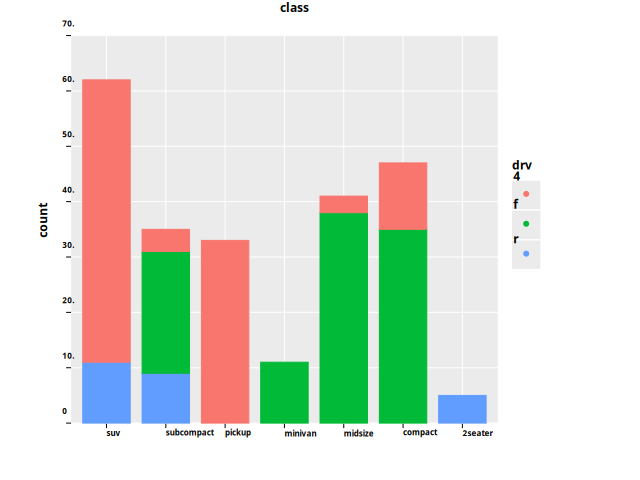
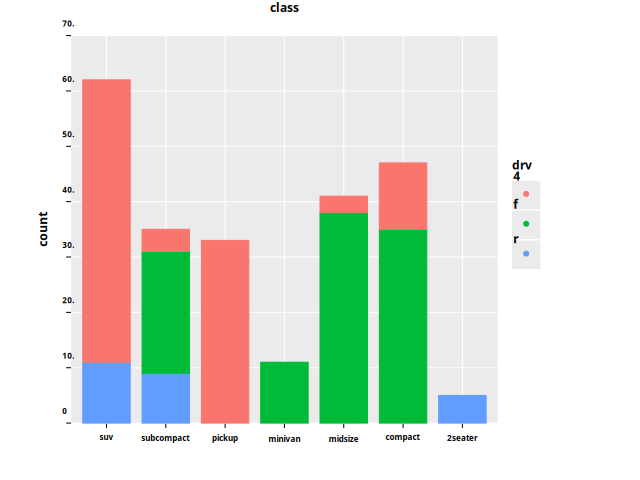
center tick labels correctly

diff --git a/src/python_ggplot/graphics/cairo_backend.py b/src/python_ggplot/graphics/cairo_backend.py
@@ -247,8 +247,8 @@ class CairoBackend:
             elif align_kind == TextAlignKind.RIGHT:
                 move_to_x = x - (extends.width + extends.x_bearing)
                 move_to_y = y - (extends.height / 2.0 + extends.y_bearing)
-            elif align_kind == TextAlignKind.CENTER:  # Center
-                move_to_x = x - (extends.width / 2.0 + extends.y_bearing)
+            elif align_kind == TextAlignKind.CENTER:  # Cexer
+                move_to_x = x - (extends.width / 2.0 + extends.x_bearing)
                 move_to_y = y - (extends.height / 2.0 + extends.y_bearing)
             else:
                 raise GGException("unexpected")

diff --git a/src/python_ggplot/graphics/initialize.py b/src/python_ggplot/graphics/initialize.py
@@ -803,7 +803,7 @@ def y_label_origin_offset(
         pos = 1.5
     str_height_coord = Coord1D.create_str_width(pos, font).to_points()
     str_height_quantity = view.get_str_height(text, font).to_points()
-    str_height_quantity.val = str_height_quantity.val * 1.7
+    str_height_quantity.val = str_height_quantity.val / 2
 
     return coord_quantity_sub(str_height_coord, str_height_quantity)
 

diff --git a/src/python_ggplot/gg/types.py b/src/python_ggplot/gg/types.py
@@ -288,7 +288,7 @@ class Theme:
     )  # TODO double check
     x_ticks_rotate: float = 0.0
     y_ticks_rotate: float = 0.0
-    x_ticks_text_align: TextAlignKind = TextAlignKind.LEFT
+    x_ticks_text_align: TextAlignKind = TextAlignKind.CENTER
     y_ticks_text_align: TextAlignKind = TextAlignKind.LEFT
 
     base_font_size: Optional[float] = None
